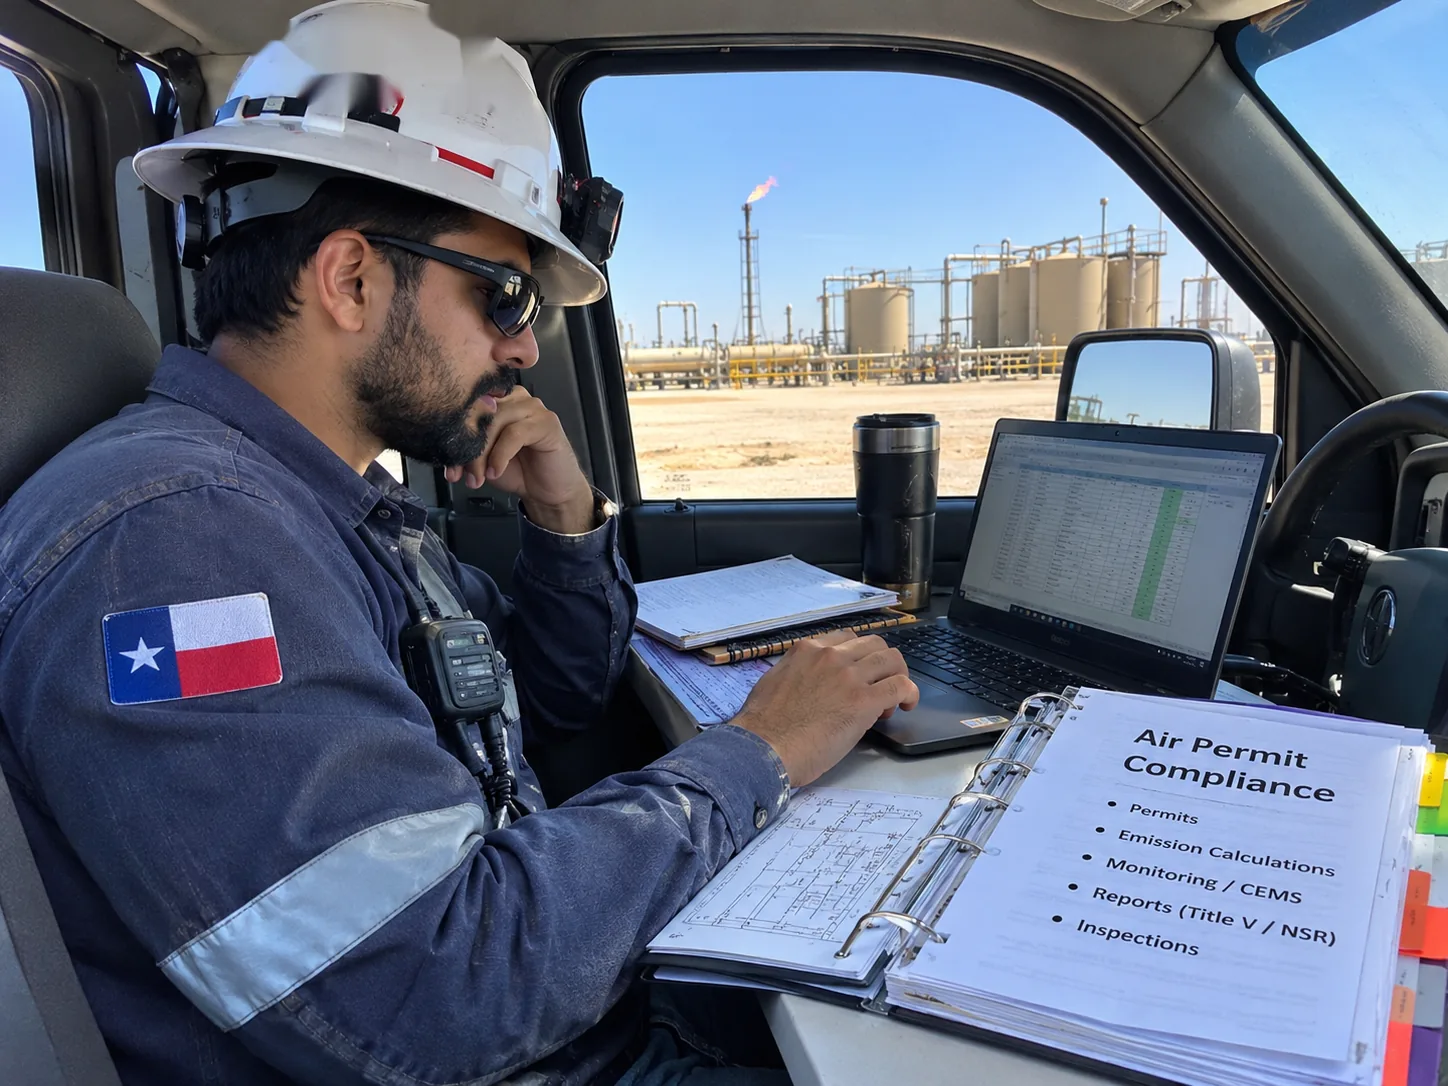
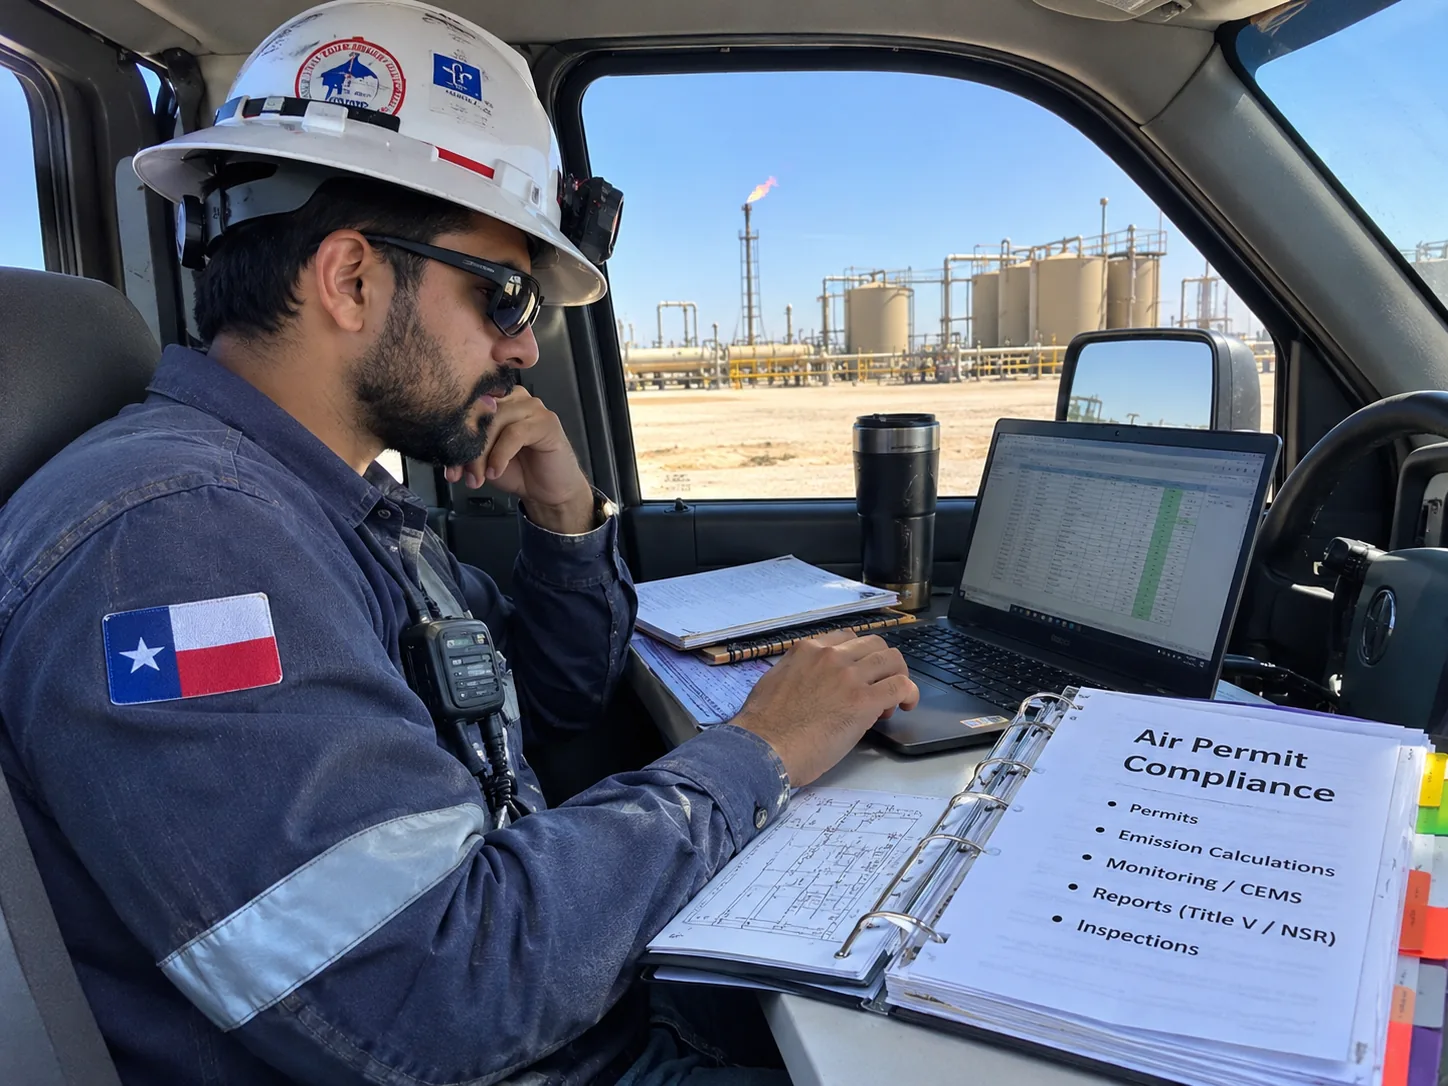
Classic look and no blurred pictures
Serif headings (Source Serif 4), solid colors instead of gradient text,
tighter corners, and no blur anywhere: frosted overlays, glass panels,
blurred glow shapes, and blurred image placeholders are gone, and the
two edited photos are back to MIR's originals.

Claude-Session: https://claude.ai/code/session_01RyXNPn5yWWcbSdd2F1hHi1

Changed region(s): [[0.1554, 0.0, 0.3419, 0.1215]]

diff --git a/src/components/home/PhotoSections.tsx b/src/components/home/PhotoSections.tsx
@@ -53,12 +53,10 @@ export function ProductPreviews() {
               <Link href={p.href} className="group flex h-full flex-col overflow-hidden rounded-2xl border border-line bg-white shadow-card transition-all hover:-translate-y-0.5 hover:shadow-lift">
                 <div className="relative aspect-[16/10] overflow-hidden border-b border-line bg-canvas">
                   <Image src={p.image} alt={`${p.title} with example data`} width={p.width} height={p.height} sizes="(min-width: 1024px) 400px, 100vw" className="h-full w-full object-cover object-top transition-transform duration-500 group-hover:scale-[1.03]" />
-                  {/* Trailer effect: the top of the tool shows, the results stay behind a frosted panel. */}
-                  <div aria-hidden="true" className="absolute inset-x-0 bottom-0 flex h-[55%] items-end justify-center bg-white/40 pb-5 backdrop-blur-[6px] [mask-image:linear-gradient(to_bottom,transparent,black_35%)]">
-                    <span className="inline-flex items-center gap-1.5 rounded-full bg-navy-900/90 px-3 py-1.5 text-xs font-semibold text-white shadow-lift">
-                      <Lock className="h-3.5 w-3.5" aria-hidden="true" /> Full results with a free account
-                    </span>
-                  </div>
+                  {/* Trailer: a clear look at the tool, with a lock badge for the full version. */}
+                  <span className="absolute bottom-3 left-3 inline-flex items-center gap-1.5 rounded-md bg-navy-900 px-3 py-1.5 text-xs font-semibold text-white shadow-lift">
+                    <Lock className="h-3.5 w-3.5" aria-hidden="true" /> Full version with a free account
+                  </span>
                 </div>
                 <div className="flex flex-1 flex-col p-5">
                   <h3 className="font-semibold text-ink group-hover:text-brand-700">{p.title}</h3>
@@ -91,7 +89,7 @@ export function FieldCoverage() {
           {coverage.map((c) => (
             <li key={c.title}>
               <Link href={c.href} className="group relative isolate flex aspect-[4/5] flex-col justify-end overflow-hidden rounded-2xl text-white shadow-card ring-1 ring-black/5 md:aspect-[3/4] xl:aspect-[4/5]">
-                <Image src={c.photo} alt={c.alt} placeholder="blur" fill sizes="(min-width: 768px) 33vw, 100vw" className="-z-10 object-cover transition-transform duration-700 group-hover:scale-105" />
+                <Image src={c.photo} alt={c.alt} fill sizes="(min-width: 768px) 33vw, 100vw" className="-z-10 object-cover transition-transform duration-700 group-hover:scale-105" />
                 <div aria-hidden="true" className="absolute inset-0 -z-10 bg-gradient-to-t from-navy-950/95 via-navy-950/45 to-transparent" />
                 <div className="p-5 sm:p-6">
                   <h3 className="text-xl font-bold">{c.title}</h3>
@@ -126,7 +124,7 @@ export function WorkspaceSection() {
     <section className="bg-white py-16 sm:py-20" aria-labelledby="workspace-heading">
       <div className="container-page grid items-center gap-10 lg:grid-cols-2 lg:gap-14">
         <div className="relative overflow-hidden rounded-2xl shadow-lift ring-1 ring-black/5">
-          <Image src={reviewPhoto} alt="Environmental engineer in a field truck reviewing permit records on a laptop" placeholder="blur" sizes="(min-width: 1024px) 50vw, 100vw" className="h-auto w-full" />
+          <Image src={reviewPhoto} alt="Environmental engineer in a field truck reviewing permit records on a laptop" sizes="(min-width: 1024px) 50vw, 100vw" className="h-auto w-full" />
         </div>
         <div>
           <p className="mb-2 text-xs font-bold tracking-[0.18em] text-brand-600 uppercase">Your workspace</p>

diff --git a/src/app/layout.tsx b/src/app/layout.tsx
@@ -1,7 +1,7 @@
 import { Analytics } from "@vercel/analytics/next";
 import { SpeedInsights } from "@vercel/speed-insights/next";
 import type { Metadata, Viewport } from "next";
-import { Inter, Plus_Jakarta_Sans } from "next/font/google";
+import { Inter, Source_Serif_4 } from "next/font/google";
 import { Footer } from "@/components/layout/Footer";
 import { Header } from "@/components/layout/Header";
 import { PrintStamp } from "@/components/layout/PrintStamp";
@@ -10,7 +10,7 @@ import { site } from "@/lib/site";
 import "./globals.css";
 
 const inter = Inter({ subsets: ["latin"], variable: "--font-inter", display: "swap" });
-const jakarta = Plus_Jakarta_Sans({ subsets: ["latin"], variable: "--font-jakarta", display: "swap", weight: ["600", "700", "800"] });
+const serif = Source_Serif_4({ subsets: ["latin"], variable: "--font-serif", display: "swap" });
 
 export const metadata: Metadata = {
   metadataBase: new URL(site.url),
@@ -39,7 +39,7 @@ const orgJsonLd = {
 
 export default function RootLayout({ children }: { children: React.ReactNode }) {
   return (
-    <html lang="en" className={`${inter.variable} ${jakarta.variable}`}>
+    <html lang="en" className={`${inter.variable} ${serif.variable}`}>
       <body className="min-h-screen pb-16 lg:pb-0">
         <Header />
         <PrintStamp />

diff --git a/src/app/globals.css b/src/app/globals.css
@@ -59,7 +59,12 @@
   --color-line: #e2e8f0;
 
   --font-sans: var(--font-inter), ui-sans-serif, system-ui, sans-serif;
-  --font-display: var(--font-jakarta), var(--font-inter), ui-sans-serif, system-ui, sans-serif;
+  --font-display: var(--font-serif), Georgia, "Times New Roman", serif;
+
+  /* Classic look: tighter corners than the default rounded-2xl cards. */
+  --radius-xl: 0.5rem;
+  --radius-2xl: 0.625rem;
+  --radius-3xl: 0.875rem;
   --font-mono: ui-monospace, "SFMono-Regular", Menlo, monospace;
 
   --shadow-card: 0 1px 2px rgb(15 23 42 / 0.04), 0 4px 16px rgb(15 23 42 / 0.06);
@@ -106,11 +111,9 @@
   }
 }
 
+/* Classic look: a solid brand color in place of the old gradient text. */
 @utility text-gradient-brand {
-  background-image: linear-gradient(90deg, #147dff 0%, #00b8ff 50%, #1fa463 100%);
-  -webkit-background-clip: text;
-  background-clip: text;
-  color: transparent;
+  color: #38bdf8;
 }
 
 @utility bg-gradient-brand {
@@ -118,10 +121,8 @@
 }
 
 @utility glass-dark {
-  background: rgb(11 41 66 / 0.55);
+  background: rgb(11 41 66 / 0.9);
   border: 1px solid rgb(255 255 255 / 0.12);
-  backdrop-filter: blur(14px);
-  -webkit-backdrop-filter: blur(14px);
 }
 
 @utility container-page {

diff --git a/src/components/home/Hero.tsx b/src/components/home/Hero.tsx
@@ -37,7 +37,7 @@ export function Hero({ stateCount }: { stateCount: number }) {
   return (
     <section className="relative isolate overflow-hidden bg-navy-950 text-white">
       {/* MIR's production-site photo (shot list #1), darkened on the left so the headline and search stay readable. */}
-      <Image src={heroPhoto} alt="" priority placeholder="blur" sizes="100vw" className="absolute inset-0 -z-10 h-full w-full object-cover object-[75%_center]" />
+      <Image src={heroPhoto} alt="" priority sizes="100vw" className="absolute inset-0 -z-10 h-full w-full object-cover object-[75%_center]" />
       <div aria-hidden="true" className="absolute inset-0 -z-10 bg-gradient-to-r from-navy-950/95 via-navy-950/65 to-navy-950/20" />
       <div aria-hidden="true" className="absolute inset-0 -z-10 bg-gradient-to-t from-navy-950 via-transparent to-navy-950/50" />
       <div className="container-page pt-40 pb-24 sm:pt-44 sm:pb-28 lg:pt-52 lg:pb-32">

diff --git a/src/components/home/HowItWorks.tsx b/src/components/home/HowItWorks.tsx
@@ -18,7 +18,7 @@ export function HowItWorks() {
             <p className="mb-2 text-xs font-bold tracking-[0.18em] text-brand-600 uppercase">How it works</p>
             <h2 id="how-heading" className="text-2xl font-bold text-ink sm:text-3xl">From first question to ongoing compliance</h2>
             <div className="mt-6 overflow-hidden rounded-2xl shadow-lift ring-1 ring-black/5">
-              <Image src={ogiPhoto} alt="Field technician checking storage tanks with an optical gas imaging camera" placeholder="blur" sizes="(min-width: 1024px) 40vw, 100vw" className="h-auto w-full" />
+              <Image src={ogiPhoto} alt="Field technician checking storage tanks with an optical gas imaging camera" sizes="(min-width: 1024px) 40vw, 100vw" className="h-auto w-full" />
             </div>
           </div>
           <ol className="grid gap-4">

diff --git a/src/components/layout/PageHeader.tsx b/src/components/layout/PageHeader.tsx
@@ -30,7 +30,6 @@ export function PageHeader({
         aria-hidden="true"
         className="absolute inset-0 opacity-60 [background-image:linear-gradient(rgb(226_232_240/0.6)_1px,transparent_1px),linear-gradient(90deg,rgb(226_232_240/0.6)_1px,transparent_1px)] [background-size:40px_40px] [mask-image:linear-gradient(to_bottom,black,transparent_85%)]"
       />
-      <div aria-hidden="true" className="absolute -top-24 right-[8%] h-72 w-72 rounded-full bg-brand-500/10 blur-3xl" />
       {scene && (
         <div aria-hidden="true" className="absolute inset-y-0 right-0 hidden w-[40%] lg:block [mask-image:linear-gradient(to_right,transparent,black_45%)]">
           <Scene kind={scene} className="h-full w-full opacity-95" grain={false} />

diff --git a/src/components/home/LowerSections.tsx b/src/components/home/LowerSections.tsx
@@ -100,7 +100,7 @@ export function FinalCta() {
   return (
     <section className="relative isolate overflow-hidden bg-navy-950 py-24 text-white sm:py-28">
       {/* MIR's aerial well pad photo (shot list #10), darkened for the headline. */}
-      <Image src={aerialPhoto} alt="" placeholder="blur" fill sizes="100vw" className="-z-10 object-cover" />
+      <Image src={aerialPhoto} alt="" fill sizes="100vw" className="-z-10 object-cover" />
       <div aria-hidden="true" className="absolute inset-0 -z-10 bg-navy-950/55" />
       <div aria-hidden="true" className="absolute inset-0 -z-10 bg-gradient-to-t from-navy-950/90 via-transparent to-navy-950/60" />
       <div className="container-page relative text-center">

diff --git a/src/components/layout/MobileTabBar.tsx b/src/components/layout/MobileTabBar.tsx
@@ -17,7 +17,7 @@ const tabs = [
 export function MobileTabBar() {
   const pathname = usePathname();
   return (
-    <nav aria-label="Quick navigation" className="no-print fixed inset-x-0 bottom-0 z-40 border-t border-line bg-white/95 pb-[env(safe-area-inset-bottom)] backdrop-blur lg:hidden">
+    <nav aria-label="Quick navigation" className="no-print fixed inset-x-0 bottom-0 z-40 border-t border-line bg-white pb-[env(safe-area-inset-bottom)] lg:hidden">
       <ul className="grid grid-cols-5">
         {tabs.map(({ label, href, icon: Icon }) => {
           const active = href === "/" ? pathname === "/" : pathname.startsWith(href);

diff --git a/src/components/home/ProblemSolvers.tsx b/src/components/home/ProblemSolvers.tsx
@@ -8,7 +8,6 @@ export function ProblemSolvers() {
   const tools = coreTools.filter((t) => t.slug !== "glossary");
   return (
     <section className="relative isolate overflow-hidden bg-navy-950 py-16 text-white sm:py-20" aria-labelledby="solvers-heading">
-      <div aria-hidden="true" className="absolute -top-32 left-1/2 -z-10 h-96 w-[48rem] -translate-x-1/2 rounded-full bg-brand-500/20 blur-3xl" />
       <div className="container-page">
         <div className="mb-8 flex flex-col gap-4 sm:flex-row sm:items-end sm:justify-between">
           <div className="max-w-2xl">

diff --git a/src/components/layout/Header.tsx b/src/components/layout/Header.tsx
@@ -76,7 +76,7 @@ export function Header() {
       <header
         className={cn(
           "fixed inset-x-0 top-0 z-50 transition-[background-color,box-shadow,backdrop-filter] duration-300",
-          solid ? "bg-navy-900/92 shadow-[0_1px_0_rgb(255_255_255/0.08)] backdrop-blur-md" : "bg-transparent",
+          solid ? "bg-navy-900 shadow-[0_1px_0_rgb(255_255_255/0.08)]" : "bg-transparent",
         )}
       >
         <div className={cn("container-page flex items-center gap-4 transition-[height] duration-300", compact ? "h-[4.5rem] lg:h-[5.5rem]" : "h-32 lg:h-40")}>

diff --git a/src/components/search/SearchDialog.tsx b/src/components/search/SearchDialog.tsx
@@ -63,7 +63,7 @@ export function SearchDialog({ open, onClose }: { open: boolean; onClose: () => 
   };
 
   return (
-    <div className="fixed inset-0 z-[60] flex items-start justify-center bg-navy-950/70 px-4 pt-[10vh] backdrop-blur-sm" onMouseDown={onClose}>
+    <div className="fixed inset-0 z-[60] flex items-start justify-center bg-navy-950/70 px-4 pt-[10vh]" onMouseDown={onClose}>
       <div
         role="dialog"
         aria-modal="true"
